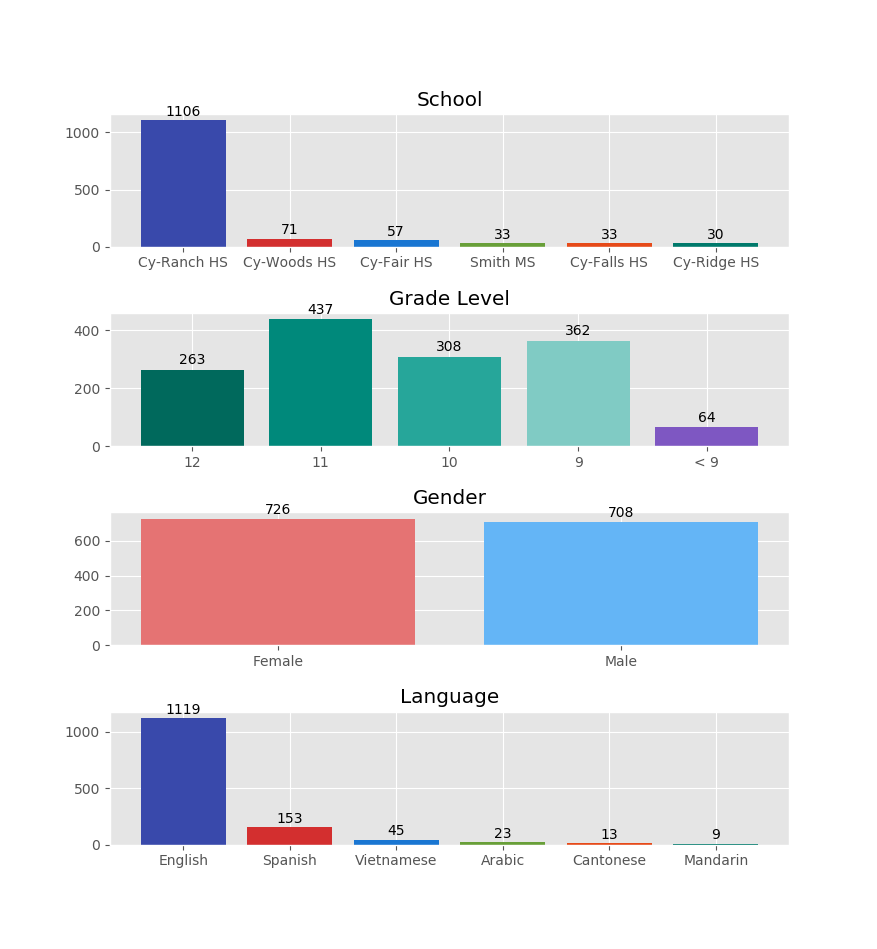
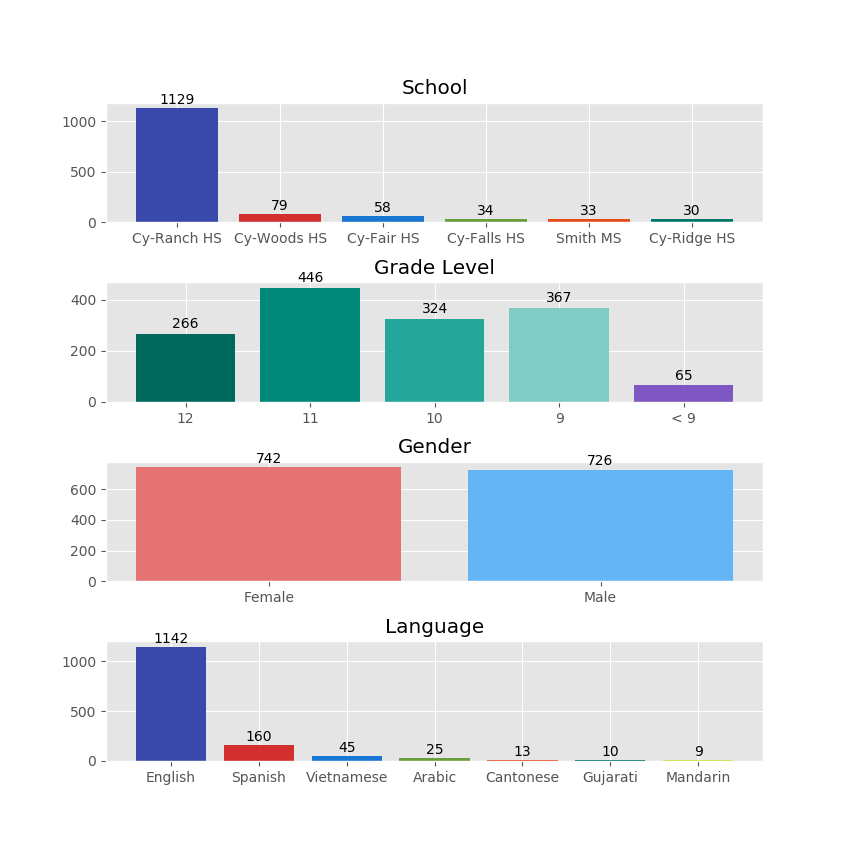
Updated

diff --git a/other_visuals/show_demo_stats.py b/other_visuals/show_demo_stats.py
@@ -53,7 +53,7 @@ def create_plot():
     make_bar(ax1, schools, 'School', limit=6, color=['#3949AB', '#D32F2F', '#1976D2', '#689F38', '#E64A19', '#00796B'])
     make_bar(ax2, grades, 'Grade Level', keys=['12', '11', '10', '9', '< 9'], color=['#00695C', '#00897B', '#26A69A', '#80CBC4', '#7E57C2'])
     make_bar(ax3, genders, 'Gender', color=['#E57373', '#64B5F6'])
-    make_bar(ax4, languages, 'Language', limit=6, color=['#3949AB', '#D32F2F', '#1976D2', '#689F38', '#E64A19', '#00796B'])
+    make_bar(ax4, languages, 'Language', limit=7, color=['#3949AB', '#D32F2F', '#1976D2', '#689F38', '#E64A19', '#00796B', '#CDDC39'])
 
     plt.subplots_adjust(hspace=.5)
 

diff --git a/other_visuals/show_gpa_stats.py b/other_visuals/show_gpa_stats.py
@@ -4,7 +4,7 @@ import math
 
 user_map = {}                  # user id -> school, grade
 gpas_map = defaultdict(list)   # class#  -> [(pos, gpa, user id), ...]
-class_map = {}                 # class#  -> class name
+class_map = {}                 # class#  -> class names
 
 for index, row in cyranch_db.tables.demo.all().iterrows():
 
@@ -57,6 +57,8 @@ def create_plot():
             return "#81C784"
         elif "Langham" in school:
             return "#B71C1C"
+        elif "Springs" in school:
+            return "#E91E63"
         else:
             return "#000000"
 

diff --git a/README.md b/README.md
@@ -27,6 +27,6 @@ purely abstract, they serve as an interesting way to visualize students and see 
 
 ## Other Visuals
 
-![gpa](https://raw.githubusercontent.com/sshh12/Students-Visualization/master/other_visuals/gpa_stats.png?)
+![gpa](https://raw.githubusercontent.com/sshh12/Students-Visualization/master/other_visuals/gpa_stats.png)
 
-![demo](https://raw.githubusercontent.com/sshh12/Students-Visualization/master/other_visuals/demo_stats.png?)
+![demo](https://raw.githubusercontent.com/sshh12/Students-Visualization/master/other_visuals/demo_stats.png)
